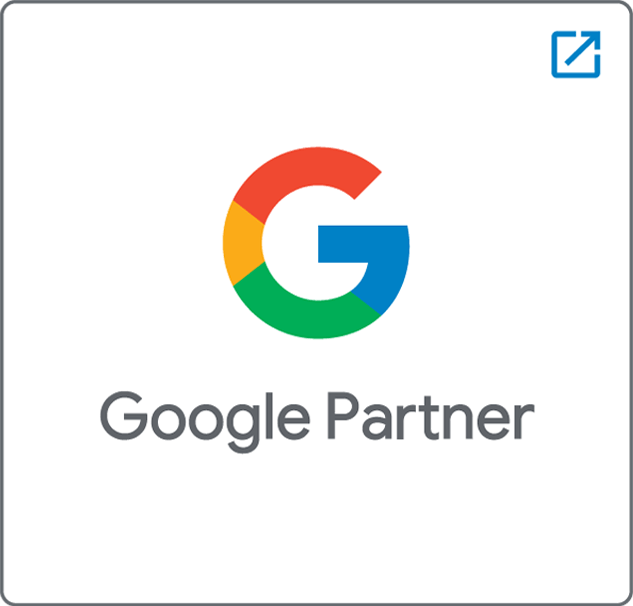
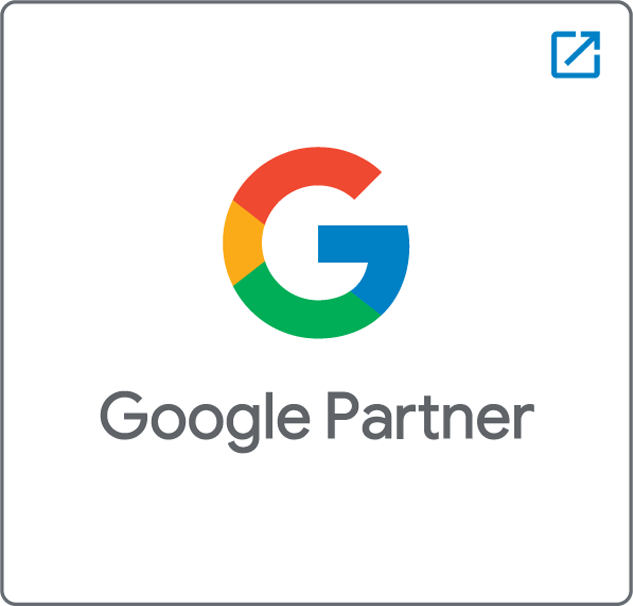
png - Updated google partners png image quality to 100

diff --git a/src/components/footer/footer.js b/src/components/footer/footer.js
@@ -270,6 +270,7 @@ const Footer = ({ linkHdr, linkPath, linkText, showPartners, colorLogos }) => {
                           src='../../images/googlepartner.png'
                           alt='Google Partner Logo'
                           layout='constrained'
+                          quality={100}
                           width={100}
                           height={100}
                         />

diff --git a/src/components/footer/footer.module.scss b/src/components/footer/footer.module.scss
@@ -143,3 +143,8 @@
 //   justify-content: flex-end;
 //   margin-bottom: 10px;
 // }
+.googlePartnerLogo {
+  position: absolute;
+  right: 0;
+  bottom: 0;
+}
